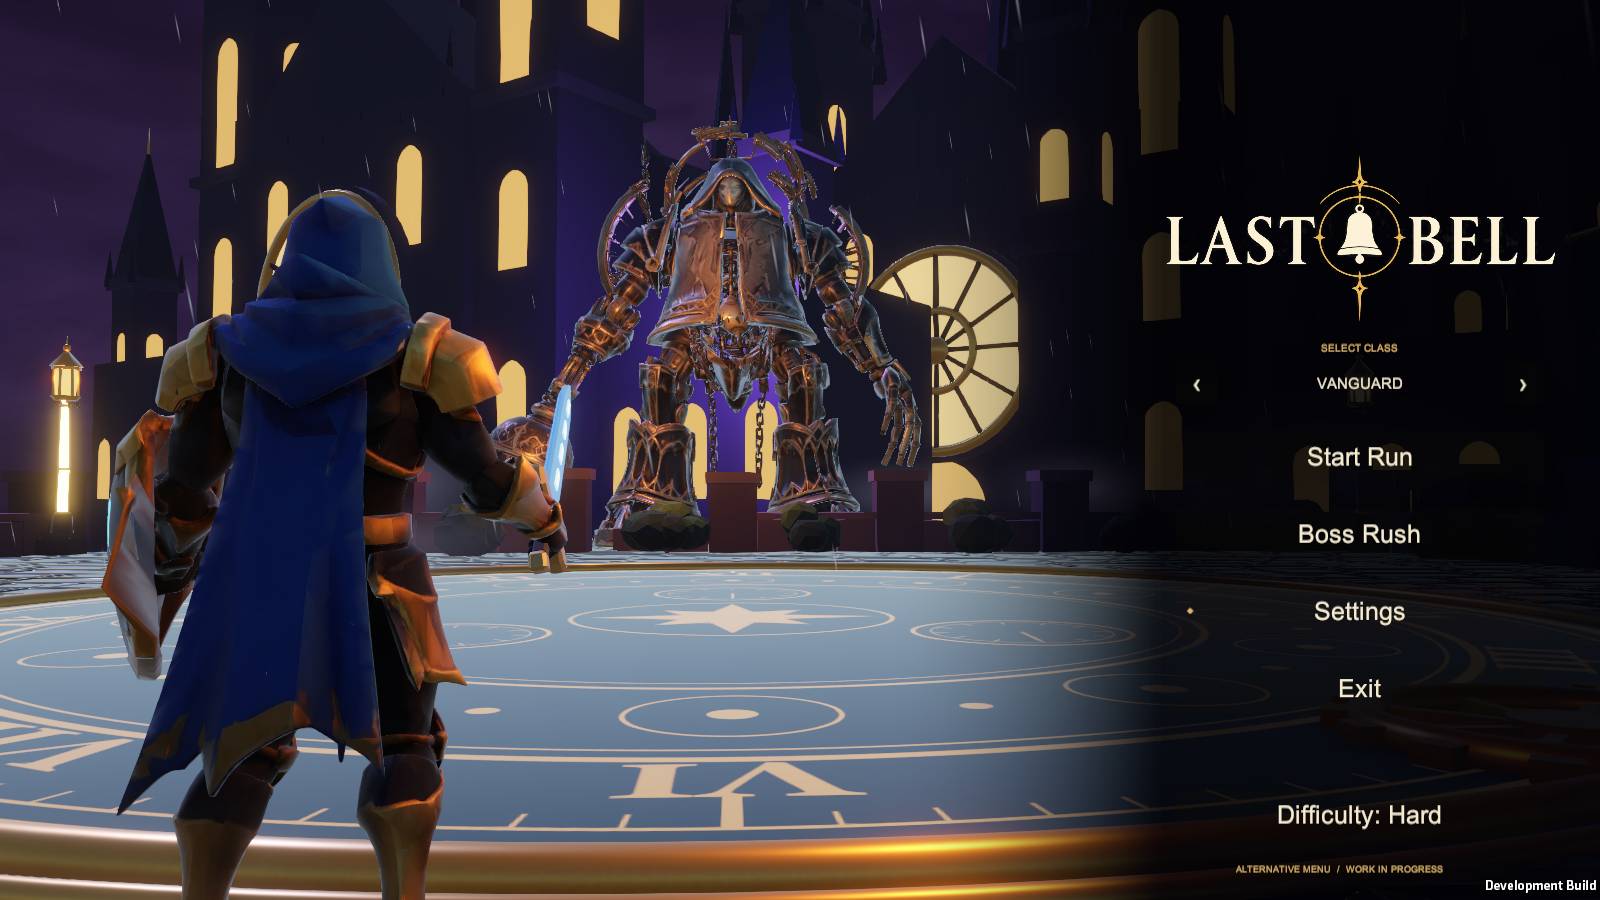
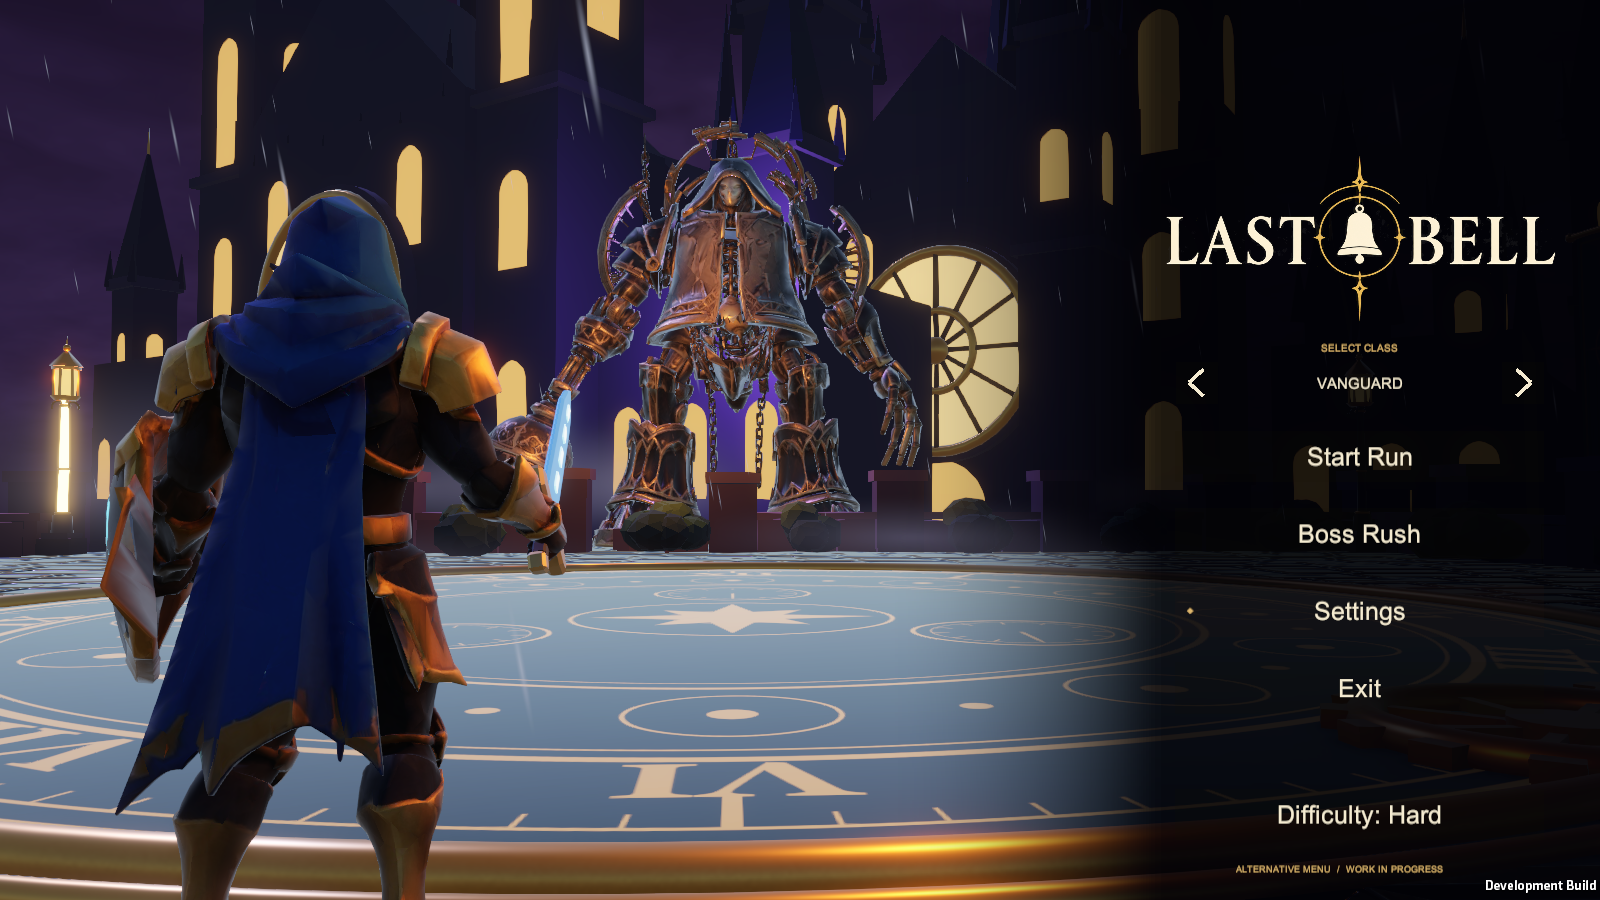
Draw class selector arrows consistently in Windows and WebGL

diff --git a/unity/Assets/LastBell/Menu/ConfrontationMenu.cs b/unity/Assets/LastBell/Menu/ConfrontationMenu.cs
@@ -103,8 +103,8 @@ namespace LastBell.Menu
 #endif
             MenuUI.Text("SELECT CLASS",panel,new Vector2(0,.69f),new Vector2(1,.73f),12,MenuUI.Gold);
             className=MenuUI.Text(SavedHeroSelection.Current.ToUpperInvariant(),panel,new Vector2(.13f,.63f),new Vector2(.87f,.69f),19);
-            PreviousButton=Nav("‹",panel,.63f,()=>SelectClass(SelectedIndex-1));Fit(PreviousButton,.02f,.63f,.13f,.69f);
-            NextButton=Nav("›",panel,.63f,()=>SelectClass(SelectedIndex+1));Fit(NextButton,.87f,.63f,.98f,.69f);
+            PreviousButton=ClassArrow(panel,false);Fit(PreviousButton,.02f,.63f,.13f,.69f);
+            NextButton=ClassArrow(panel,true);Fit(NextButton,.87f,.63f,.98f,.69f);
             var diff=Nav("Difficulty",panel,0,()=>{RunDifficulty.Selected=(Difficulty)(((int)RunDifficulty.Selected+1)%RunDifficulty.Names.Length);RefreshDifficulty();});
             difficulty=diff.GetComponentInChildren<Text>();difficulty.fontSize=16;RefreshDifficulty();
             MenuUI.Text("ALTERNATIVE MENU  /  WORK IN PROGRESS",safe,new Vector2(.69f,.018f),new Vector2(.985f,.05f),11,MenuUI.Gold);
@@ -114,6 +114,14 @@ namespace LastBell.Menu
             message=MenuUI.Text("",safe,new Vector2(.70f,.01f),new Vector2(.99f,.08f),14,MenuUI.Gold);
         }
         void RefreshDifficulty(){difficulty.text="Difficulty: "+RunDifficulty.Name(RunDifficulty.Selected);}
+        Button ClassArrow(Transform parent,bool next)
+        {
+            var b=Nav(next?"Next class":"Previous class",parent,.63f,()=>SelectClass(SelectedIndex+(next?1:-1)));
+            b.GetComponentInChildren<Text>().text="";
+            var icon=MenuUI.Rect("Class arrow",b.transform,Vector2.zero,Vector2.one,new Vector2(2,4)).gameObject.AddComponent<ClassSelectionArrow>();
+            icon.Next=next;icon.color=MenuUI.Ivory;icon.raycastTarget=false;
+            return b;
+        }
         static void Fit(Button b,float x,float y,float x2,float y2){var r=(RectTransform)b.transform;r.anchorMin=new Vector2(x,y);r.anchorMax=new Vector2(x2,y2);r.offsetMin=r.offsetMax=Vector2.zero;}
         Button Nav(string label,Transform parent,float y,UnityEngine.Events.UnityAction action)
         {
@@ -184,6 +192,28 @@ namespace LastBell.Menu
         {
             foreach(var p in heroes.Concat(new[]{Boss}))if(p)foreach(var r in p.GetComponentsInChildren<Renderer>(true))foreach(var m in r.sharedMaterials)if(m&&m.name.EndsWith("(Instance)"))Destroy(m);
             if(gradientSprite)Destroy(gradientSprite);if(gradient)Destroy(gradient);
+        }
+    }
+    // Canvas geometry keeps these controls visible in WebGL without relying on font glyphs.
+    public sealed class ClassSelectionArrow : MaskableGraphic
+    {
+        public bool Next;
+        protected override void OnPopulateMesh(VertexHelper vertices)
+        {
+            vertices.Clear();var rect=GetPixelAdjustedRect();float size=Mathf.Min(rect.width,rect.height)*.75f;
+            float direction=Next?1:-1;var center=rect.center;
+            var top=center+new Vector2(-.25f*direction,.5f)*size;
+            var tip=center+new Vector2(.3f*direction,0)*size;
+            var bottom=center+new Vector2(-.25f*direction,-.5f)*size;
+            Stroke(vertices,top,tip,Mathf.Max(2,size*.14f));Stroke(vertices,tip,bottom,Mathf.Max(2,size*.14f));
+        }
+        void Stroke(VertexHelper vertices,Vector2 start,Vector2 end,float width)
+        {
+            Vector2 delta=(end-start).normalized;var normal=new Vector2(-delta.y,delta.x)*width*.5f;
+            int i=vertices.currentVertCount;
+            vertices.AddVert(start+normal,color,Vector2.zero);vertices.AddVert(start-normal,color,Vector2.zero);
+            vertices.AddVert(end-normal,color,Vector2.zero);vertices.AddVert(end+normal,color,Vector2.zero);
+            vertices.AddTriangle(i,i+1,i+2);vertices.AddTriangle(i,i+2,i+3);
         }
     }
 }
